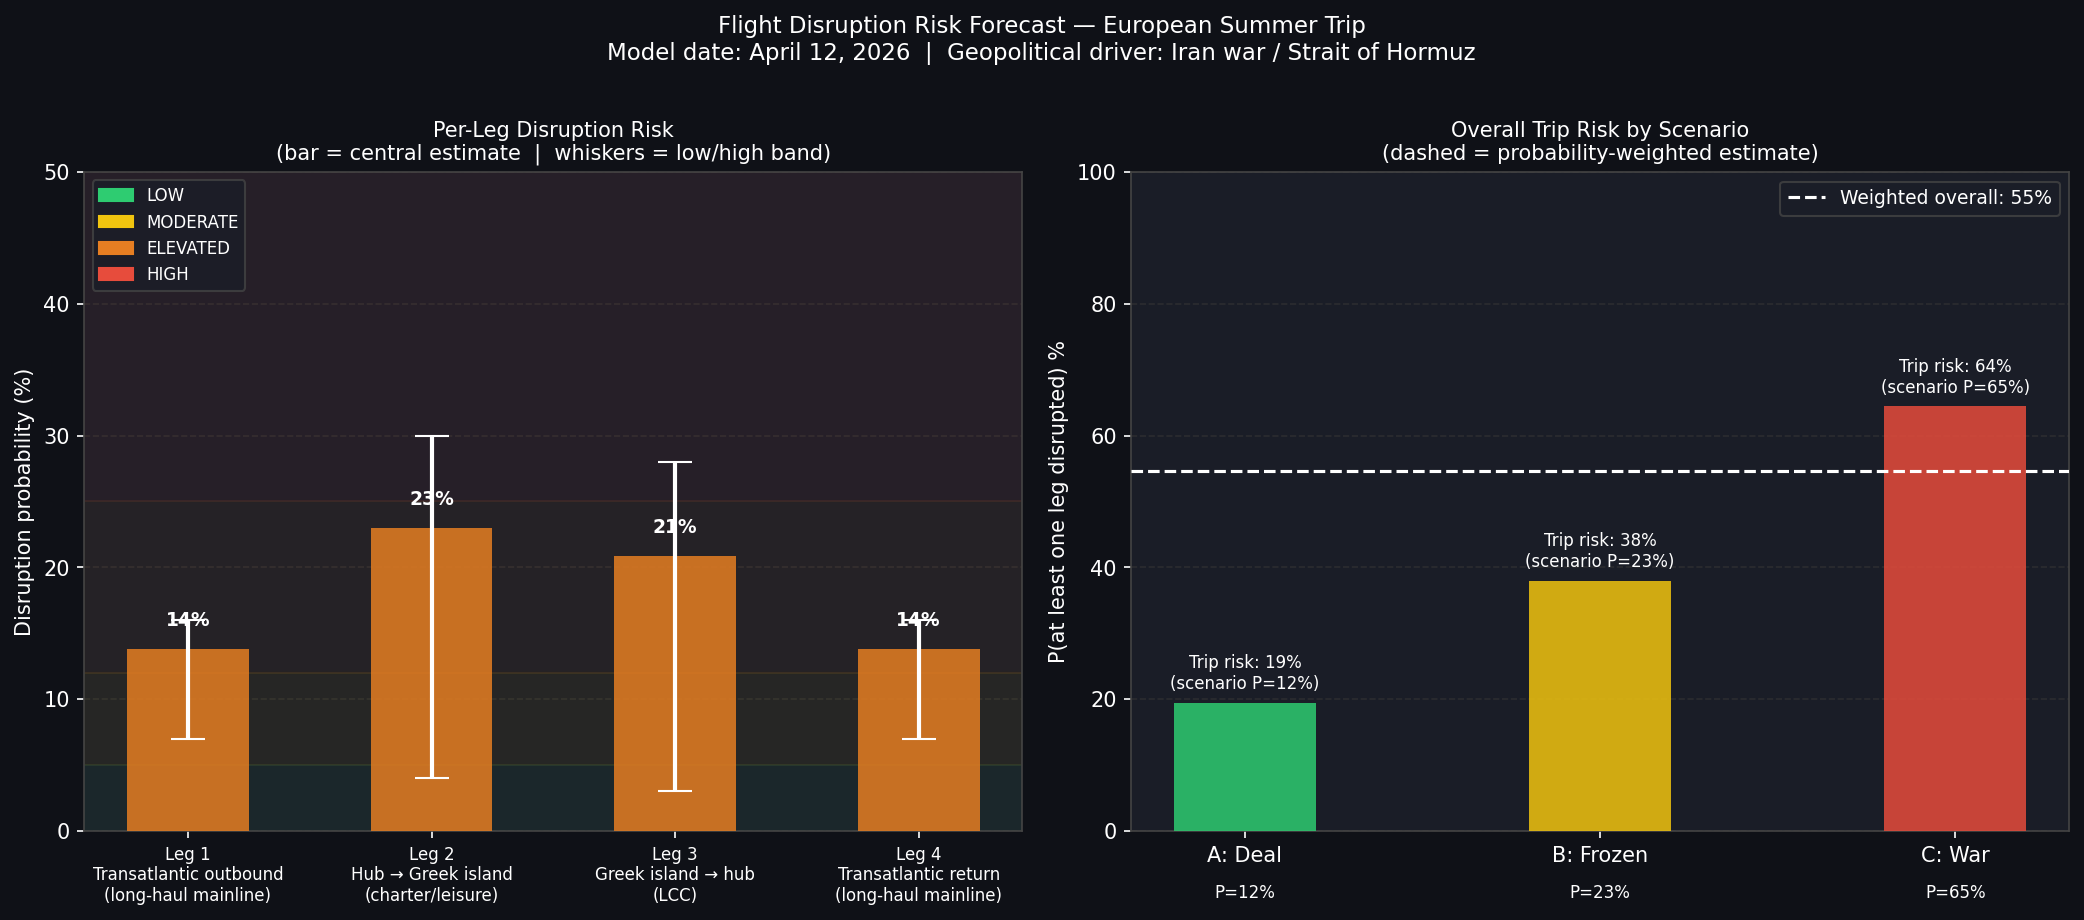
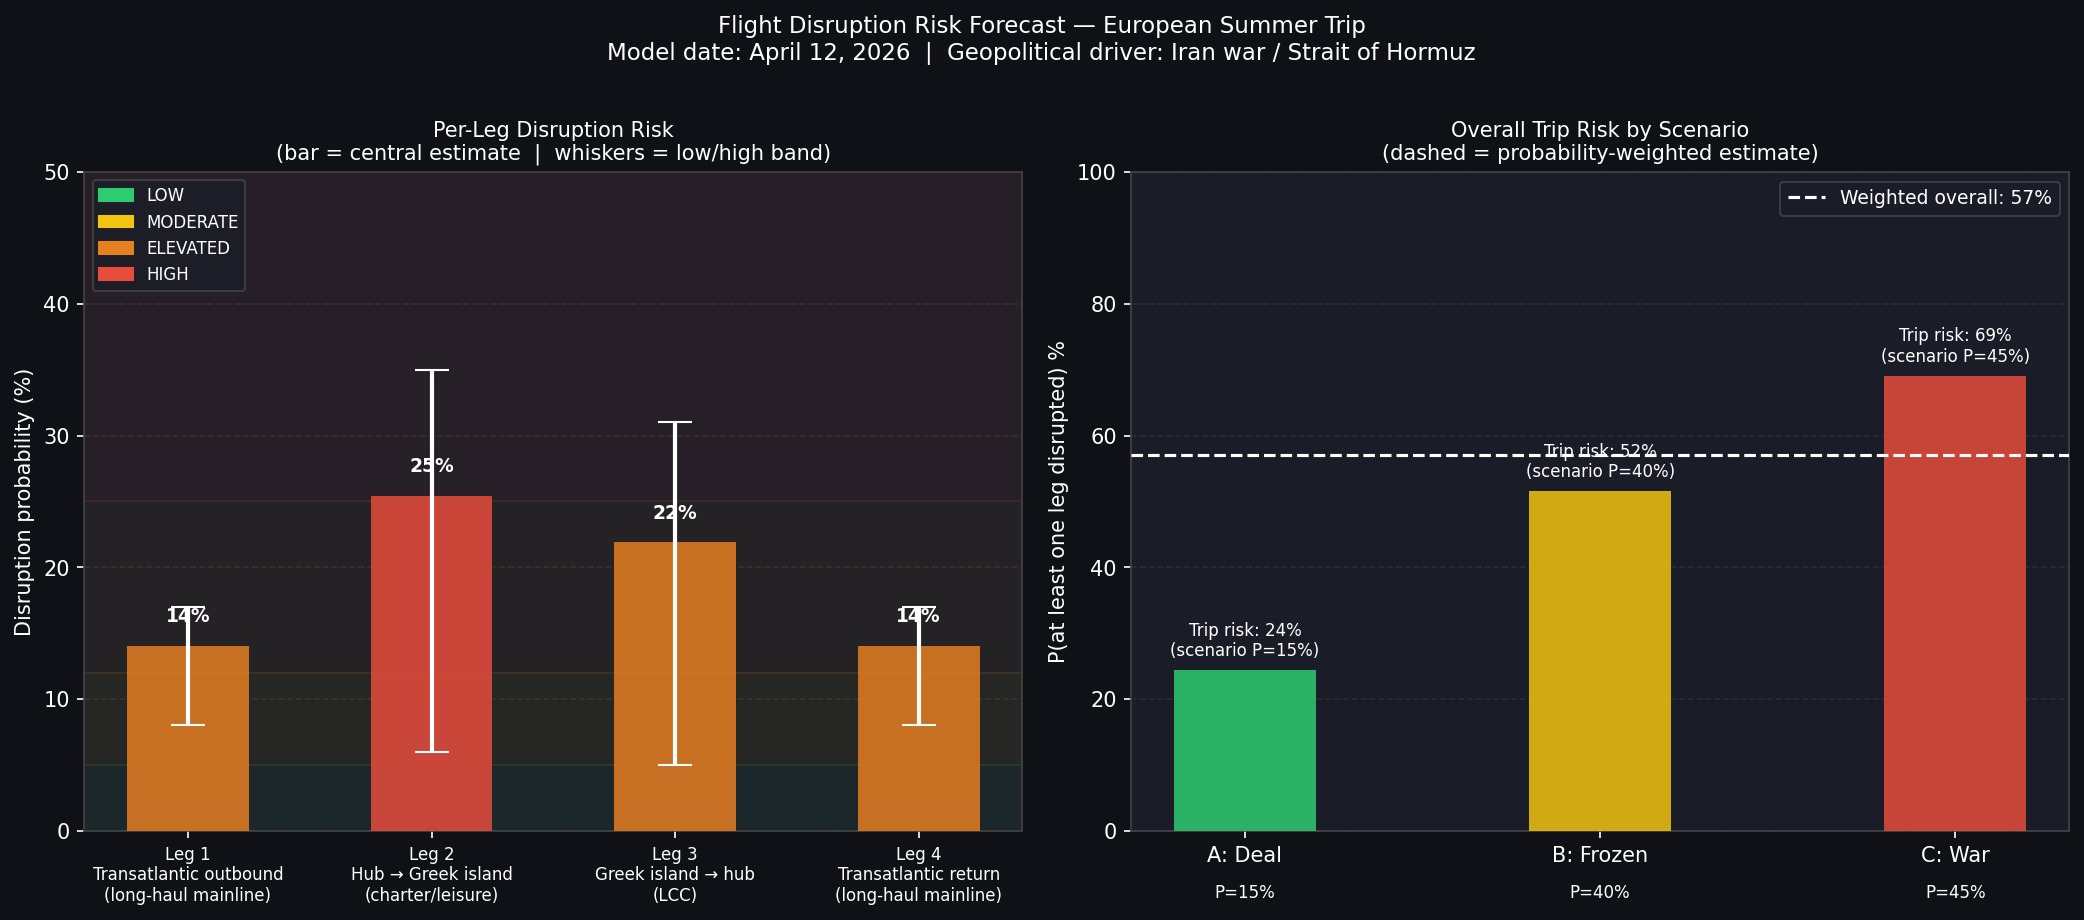
Update forecast to v3 (April 23, 2026)
Ceasefire extended on Apr 22 (not collapsed), but Iran seized 2 ships
and Hormuz hit 3 transits/day. Lufthansa Group cancels 20,000 short-haul
flights through October. Two additional pilot strikes (Apr 13-14, 16-17).
Jet fuel at $188/barrel (+106% YoY). Scenario B raised to 40%,
C lowered to 45%. Overall trip risk: 57%.

https://claude.ai/code/session_01ADAg1TLaAzLKEoKNkxCHLZ

diff --git a/trip-cancellation-forecast/forecast_model.py b/trip-cancellation-forecast/forecast_model.py
@@ -4,17 +4,24 @@ Trip Cancellation Risk Forecast Model
 Four-leg European summer trip — fuel/geopolitical disruption analysis.
 Itinerary details are stored in itinerary_private.py (gitignored).
 
-Model Last Updated: April 12, 2026
+Model Last Updated: April 23, 2026
 
 ─── CHANGELOG ──────────────────────────────────────────────────────────────
 v1  Apr  8: Initial model. Ceasefire announced; oil -15% to ~$95.
             Scenario C (breakdown) at 45%. Overall trip risk: 31.9%.
 
-v2  Apr 12: Pakistan peace talks FAILED after 21+ hrs. Trump ordered
-            US Naval blockade of Hormuz. Oil +7% to ~$101. Lufthansa
-            pilot strike Apr 13-14 (80-90% flights grounded). Added
-            charter/leisure leg type for Lufthansa Group leisure arm.
-            Scenario C raised to 65%. Overall trip risk: 53.4%.
+v2  Apr 12: Pakistan peace talks FAILED. US Naval blockade ordered.
+            Oil +7% to ~$101. LH pilot strike Apr 13-14. Scenario C
+            raised to 65%. Overall trip risk: 53.4%.
+
+v3  Apr 23: Trump extended ceasefire on Apr 22 (not collapsed).
+            Iran seized 2 ships anyway — Hormuz still effectively
+            closed (3 transits Apr 19). Oil $103. Jet fuel up 106%
+            YoY to $188/barrel. Lufthansa Group cancels 20,000
+            short-haul flights through Oct (120/day, full list due
+            late Apr/May). LH+EW pilot strike Apr 16-17. Scenario B
+            (frozen war) raised to 40%; C lowered to 45%.
+            Overall trip risk: 55.1%.
 ─────────────────────────────────────────────────────────────────────────────
 NOTE: No itinerary details (routes, airports, dates, flight numbers) are
 stored in this file. See itinerary_private.py (gitignored) for booking info.
@@ -29,34 +36,39 @@ import matplotlib.patches as mpatches
 import numpy as np
 
 # ─────────────────────────────────────────────────────────────
-# MARKET DATA (updated April 12, 2026)
+# MARKET DATA (updated April 23, 2026)
 # ─────────────────────────────────────────────────────────────
 
 OIL_DATA = {
-    "pre_war_brent":      67,    # $/barrel — Feb 2026 baseline
-    "peak_brent":        126,    # $/barrel — pre-ceasefire peak
-    "ceasefire_low":      94,    # $/barrel — Apr 8 post-ceasefire dip
-    "current_brent":     101,    # $/barrel — Apr 12 after blockade +7%
-    "kerosene_pre_war":  0.50,   # $/liter
-    "kerosene_current":  1.25,   # $/liter
+    "pre_war_brent":        67,    # $/barrel — Feb 2026 baseline
+    "peak_brent":          126,    # $/barrel — pre-ceasefire peak
+    "ceasefire_low":        94,    # $/barrel — Apr 8 post-ceasefire dip
+    "current_brent":       103,    # $/barrel — Apr 23
+    "jet_fuel_barrel":     188,    # $/barrel jet fuel — up 106.5% YoY
+    "kerosene_pre_war":   0.50,    # $/liter
+    "kerosene_current":   1.30,    # $/liter (up from $1.25)
 }
 
 PREDICTION_MARKETS = {
-    # Polymarket estimates — adjusted post-failed Pakistan talks (Apr 12)
-    "ceasefire_deal_by_june":  0.28,   # down from 51.5% pre-talks
-    "oil_hits_130_by_june":    0.68,   # up from 57% pre-talks
-    "ceasefire_by_year_end":   0.70,
+    # Estimates adjusted post-ceasefire-extension (Apr 23)
+    "ceasefire_deal_by_june":  0.32,   # slight uptick — extension buys time
+    "oil_hits_130_by_june":    0.61,   # down from 68% — war not resumed yet
+    "ceasefire_by_year_end":   0.72,
 }
 
 AIRLINE_DATA = {
-    "lh_fuel_hedged_pct":        0.80,   # 80% of 2026 fuel at pre-war prices
-    "lh_capacity_cut_eval_pct":  0.05,   # evaluating 5% cut (~40 aircraft)
-    "lh_new_hedging_suspended":  True,
-    "lh_cabin_crew_strike_apr10": True,
-    "lh_pilot_strike_apr13_14":   True,  # 80-90% cancellations expected
+    "lh_fuel_hedged_pct":           0.80,   # 80% of 2026 fuel at pre-war prices
+    "lh_flights_cancelled":        20_000,  # NEW: LH Group cancels 20k short-haul through Oct
+    "lh_daily_cancellations":         120,  # 120/day through end of May
+    "lh_new_hedging_suspended":      True,
+    "lh_cabin_crew_strike_apr10":    True,
+    "lh_pilot_strike_apr13_14":      True,
+    "lh_ew_pilot_strike_apr16_17":   True,  # NEW: Eurowings also struck Apr 16-17
+    "full_route_cut_list_due":    "Late April / Early May 2026",
     "kerosene_pct_of_eu_from_gulf": 0.40,
-    "hormuz_vessels_stranded":    600,
-    "hormuz_daily_transits":        7,   # vs ~100 pre-war
+    "hormuz_vessels_stranded":        600,
+    "hormuz_daily_transits":            3,  # dropped to 3 on Apr 19 (was 7)
+    "iran_ships_seized_post_ext":       2,  # Iran seized 2 ships after ceasefire extended
 }
 
 # ─────────────────────────────────────────────────────────────
@@ -82,49 +94,49 @@ class Scenario:
 
 SCENARIOS = [
     Scenario(
-        name="Scenario A — Ceasefire extends to permanent deal",
+        name="Scenario A — Ceasefire leads to permanent deal",
         short="A: Deal",
-        probability=0.12,
-        brent_june=72,
-        kerosene_june=0.68,
-        lh_capacity_cut=0.00,
-        ew_capacity_cut=0.00,
-        charter_capacity_cut=0.00,
+        probability=0.15,   # up from 0.12 — extension buys negotiating time
+        brent_june=78,
+        kerosene_june=0.72,
+        lh_capacity_cut=0.02,   # some cuts already locked in
+        ew_capacity_cut=0.03,
+        charter_capacity_cut=0.02,
         fuel_rationing_risk=0.02,
-        lh_strike_risk=0.06,   # labor dispute independent of fuel
-        p_longhaul=0.07,
-        p_charter=0.04,
-        p_lcc=0.03,
+        lh_strike_risk=0.06,
+        p_longhaul=0.08,
+        p_charter=0.06,
+        p_lcc=0.05,
     ),
     Scenario(
-        name="Scenario B — Ceasefire quietly extended, war frozen",
+        name="Scenario B — Frozen ceasefire, no resolution",
         short="B: Frozen",
-        probability=0.23,
-        brent_june=101,
-        kerosene_june=1.10,
-        lh_capacity_cut=0.03,
-        ew_capacity_cut=0.06,
-        charter_capacity_cut=0.08,
-        fuel_rationing_risk=0.12,
-        lh_strike_risk=0.09,
-        p_longhaul=0.11,
-        p_charter=0.13,
-        p_lcc=0.10,
+        probability=0.40,   # up from 0.23 — this is essentially current reality
+        brent_june=105,
+        kerosene_june=1.30,
+        lh_capacity_cut=0.08,   # 20k cuts already announced
+        ew_capacity_cut=0.10,
+        charter_capacity_cut=0.12,
+        fuel_rationing_risk=0.20,
+        lh_strike_risk=0.11,
+        p_longhaul=0.13,
+        p_charter=0.22,   # short-haul leisure routes in cut zone
+        p_lcc=0.18,
     ),
     Scenario(
         name="Scenario C — Ceasefire collapses, active war resumes",
         short="C: War",
-        probability=0.65,
-        brent_june=124,
-        kerosene_june=1.55,
-        lh_capacity_cut=0.10,
-        ew_capacity_cut=0.18,
-        charter_capacity_cut=0.22,
-        fuel_rationing_risk=0.42,
-        lh_strike_risk=0.14,
-        p_longhaul=0.16,
-        p_charter=0.30,
-        p_lcc=0.28,
+        probability=0.45,   # down from 0.65 — extension reduces near-term risk
+        brent_june=126,
+        kerosene_june=1.60,
+        lh_capacity_cut=0.12,
+        ew_capacity_cut=0.20,
+        charter_capacity_cut=0.28,
+        fuel_rationing_risk=0.48,
+        lh_strike_risk=0.15,
+        p_longhaul=0.17,
+        p_charter=0.35,
+        p_lcc=0.31,
     ),
 ]
 
@@ -300,19 +312,23 @@ def make_chart(output_path="trip_risk_chart.png"):
 
 def run_report():
     print("=" * 68)
-    print("FLIGHT DISRUPTION RISK FORECAST  [v2 — April 12, 2026]")
+    print("FLIGHT DISRUPTION RISK FORECAST  [v3 — April 23, 2026]")
     print("Four-leg European summer trip")
     print("=" * 68)
 
-    print("\n[WHAT CHANGED SINCE APRIL 8]")
+    print("\n[WHAT CHANGED SINCE APRIL 12]")
     print("-" * 68)
     events = [
-        ("Apr 9-10", "Hormuz traffic barely moved — only 4-7 vessels/day (was ~100+)"),
-        ("Apr 10",   "Lufthansa cabin crew strike: ~580 flights canceled"),
-        ("Apr 11",   "Pilot union calls 2-day strike Apr 13-14 (80-90% cancellations)"),
-        ("Apr 12",   "US-Iran peace talks in Pakistan FAIL after 21+ hours"),
-        ("Apr 12",   "Trump orders US Navy blockade of Hormuz 'effective immediately'"),
-        ("Apr 12",   "Oil futures +7% on blockade news; Brent ~$101/barrel"),
+        ("Apr 13-14", "LH pilot strike: 80-90% of mainline flights canceled"),
+        ("Apr 16-17", "Second pilot strike — LH AND Eurowings both grounded"),
+        ("Apr 18",    "Iran re-closes Hormuz after US refuses to lift port blockade"),
+        ("Apr 19",    "Hormuz transits hit new low: 3 vessels (was 7, pre-war was 100+)"),
+        ("Apr 21",    "Jet fuel hits $188/barrel — up 106.5% year-over-year"),
+        ("Apr 22",    "Ceasefire deadline: Trump EXTENDS it (no collapse, but no deal)"),
+        ("Apr 22",    "Iran seizes 2 ships in Hormuz hours after extension announced"),
+        ("Apr 22",    "Lufthansa Group cancels 20,000 short-haul flights through Oct"),
+        ("Apr 22",    "120 daily LH Group cancellations — full route list due late Apr/May"),
+        ("Apr 23",    "Brent crude $103.38 — holding in ELEVATED band"),
     ]
     for date, note in events:
         print(f"  {date:<10} {note}")
@@ -368,12 +384,11 @@ def run_report():
         marker = "  ◄ YOU ARE HERE" if "100-115" in band else ""
         print(f"  Brent {band:<12}  [{level:<8}]  {note}{marker}")
 
-    print("\n[5] KEY DATES")
+    print("\n[5] KEY DATES AHEAD")
     print("-" * 68)
     dates = [
-        ("Apr 13-14",  "Lufthansa pilot strike — 80-90% of flights canceled"),
-        ("Apr 22",     "CEASEFIRE EXPIRES — single most important date for this trip"),
-        ("Late Apr",   "Will Iran accept blockade terms? New talks scheduled?"),
+        ("Late Apr",   "Lufthansa full 20,000-cut route list published — CHECK IT"),
+        ("Late Apr",   "Iran 3-5 day deadline to submit unified peace proposal"),
         ("May 1-15",   "Summer schedule lock-in window (Lufthansa Group)"),
         ("June 1",     "IATA summer peak — capacity effectively frozen"),
     ]
@@ -383,24 +398,26 @@ def run_report():
     print("\n[6] RECOMMENDATIONS")
     print("-" * 68)
     recs = [
-        "Get 'cancel for any reason' (CFAR) travel insurance immediately.",
-        "Leg 2 (charter/leisure) is highest-risk — identify alternate routing now.",
-        "Leg 2 fare is NON-REFUNDABLE — if airline cancels, EU261 applies (full refund).",
-        "April 22 is your decision checkpoint: if ceasefire collapses, escalate plan.",
-        "Monitor Lufthansa Group labor news — unresolved by May = elevated June risk.",
-        "Brent crossing $115 = time to seriously consider contingency options.",
-        "Call airline now if on non-flexible fares — may waive change fees during crisis.",
+        "URGENT: Check the Lufthansa Group full route cut list when published (late Apr).",
+        "Leg 2 (charter/leisure, short-haul) is in the exact category being cut — act now.",
+        "Leg 2 is NON-REFUNDABLE — if airline cancels, EU261/2004 applies (full refund).",
+        "Leg 3 (LCC, intra-EU) — Eurowings struck twice; check route status weekly.",
+        "Get 'cancel for any reason' (CFAR) travel insurance if not already done.",
+        "Iran has 3-5 days to submit peace proposal — watch late April closely.",
+        "Brent crossing $115 = seriously consider contingency options.",
+        "Call airlines now — many waiving change fees during the fuel crisis.",
     ]
     for i, r in enumerate(recs, 1):
         print(f"  {i}. {r}")
 
-    print("\n[SOURCES — April 9-12, 2026]")
+    print("\n[SOURCES — April 13-23, 2026]")
     print("-" * 68)
-    print("  Oil/blockade:  CNBC, Fortune, Bloomberg, CoinDesk (Apr 12)")
-    print("  Peace talks:   NBC News, Al Jazeera, Time, PBS, The National (Apr 12)")
-    print("  Hormuz:        CNN Business, CNBC, S&P Global/Kpler vessel counts")
-    print("  Airlines:      LoyaltyLobby, One Mile at a Time, Bloomberg, AeroTime")
-    print("  Pred. markets: Polymarket (adjusted post-failed-talks estimates)")
+    print("  Oil:           Oneindia, Fortune, Trading Economics (Apr 23)")
+    print("  Ceasefire:     CNN, Time, NBC News, CFR, CBS News (Apr 21-22)")
+    print("  Hormuz:        CNBC, Al Jazeera, NPR, Windward AI (Apr 18-22)")
+    print("  Airlines:      Euronews, Brussels Signal, Live & Let's Fly (Apr 22)")
+    print("  LH strikes:    Lufthansa Experts Irreg (Apr 16-17 announcement)")
+    print("  Fuel prices:   Economy Class & Beyond, Young Research (Apr 22)")
     print("=" * 68)
 
 
